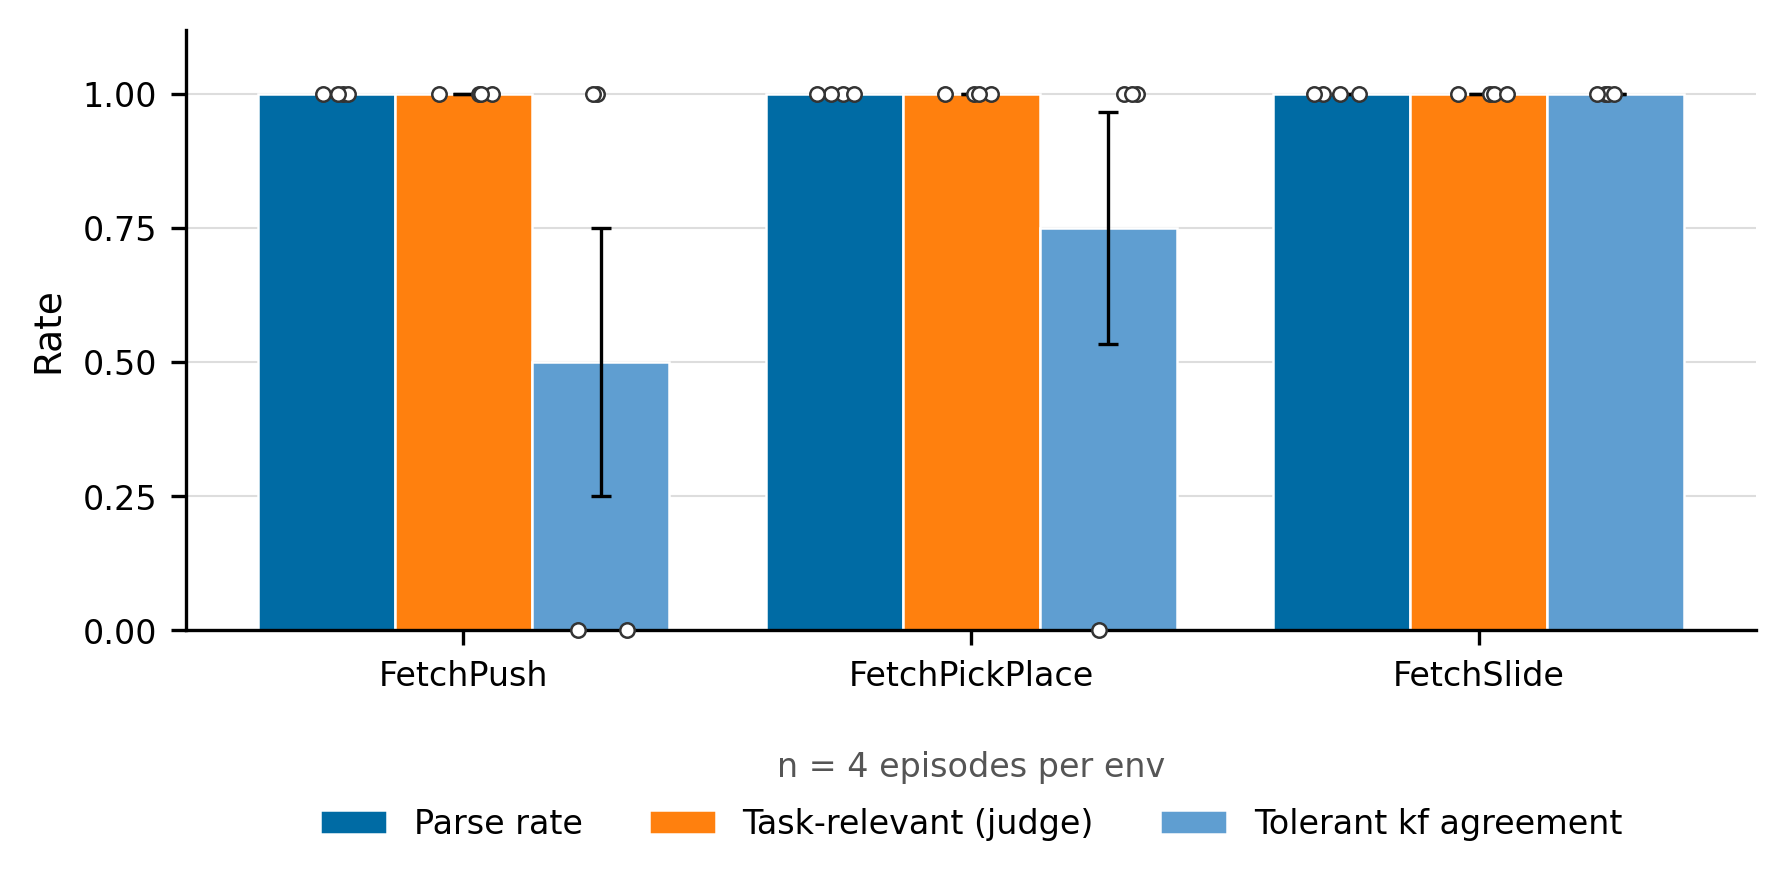
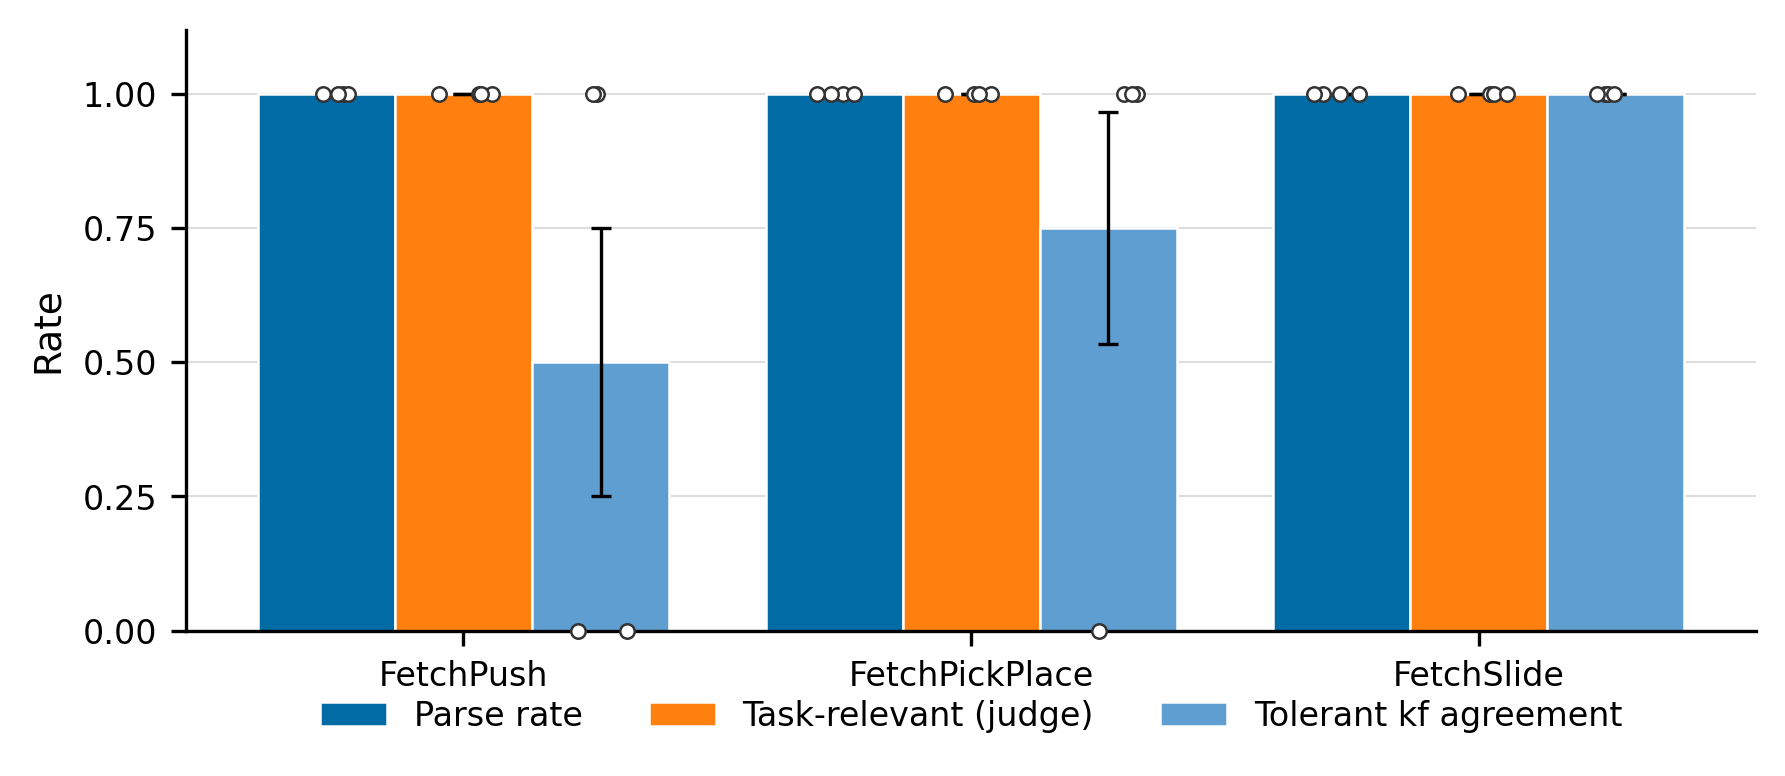
Figure audit: remove in-axes n= annotation from figN2, tighten legend
figN2_cross_task_transfer had an ax.text() sample-size annotation floating
in dead whitespace between x-axis ticks and the legend (bbox y=-0.4), consuming
~40% of vertical extent as empty margin. Removed per NeurIPS convention (n= info
belongs in caption); tightened legend anchor from y=-0.4 to y=-0.22.

diff --git a/agent_reports/make_figN2.py b/agent_reports/make_figN2.py
@@ -129,13 +129,9 @@ ax.grid(False)
 ax.yaxis.grid(True, color="#dddddd", linewidth=0.5)
 ax.set_axisbelow(True)
 
-ax.legend(loc="lower center", bbox_to_anchor=(0.5, -0.4), ncol=3, frameon=False)
-
-# Annotate sample size below the x-axis label.
-n_per_env = [sum(1 for r in d["episodes"] if r["env_name"] == env) for env in ENV_ORDER]
-ax.text(0.5, -0.2, f"n = {n_per_env[0]} episodes per env",
-        transform=ax.transAxes, ha="center", va="top",
-        fontsize=8, color="#555555")
+ax.legend(loc="lower center", bbox_to_anchor=(0.5, -0.22), ncol=3, frameon=False)
+# Sample size (n=4 per env) is reported in the figure caption, not on the axes,
+# per NeurIPS convention (no verbose text annotations on plots).
 
 out_dir = REPO / "agent_reports" / "figs"
 out_dir.mkdir(parents=True, exist_ok=True)

diff --git a/agent_reports/figure_audit_2233.md b/agent_reports/figure_audit_2233.md
@@ -1,0 +1,3 @@
+**Figure audit — 2026-05-12 22:33**
+
+Candidates reviewed (excluding the three protected v4-overhaul figures: `fig_headline_v4`, `fig_envs`, `fig_learning_curves_v2`): `figN_c1v2_model_comparison`, `figN_c1v2_real_vs_synthetic`, `figN2_cross_task_transfer`, `fig_morning_headline`, `fig_learning_curves`, plus older `fig*` variants. The weakest figure was **`figN2_cross_task_transfer`**: its generation script (`make_figN2.py`) placed an `ax.text()` annotation reading "n = 4 episodes per env" at `transform=ax.transAxes, y=-0.2`, which floated in dead whitespace *between* the x-axis tick labels and the legend (itself anchored at `bbox_to_anchor=(0.5, -0.4)`), producing ~40% of the figure's total vertical extent as empty margin — a clear NeurIPS violation ("no verbose text annotations on plots"; sample size belongs in the caption). Fix applied: removed the in-axes annotation and tightened the legend anchor from `y=-0.4` to `y=-0.22`, which eliminates the dead whitespace while keeping the legend clear of the tick labels. Script and both output files (PNG + PDF) updated. No other figures were modified.
